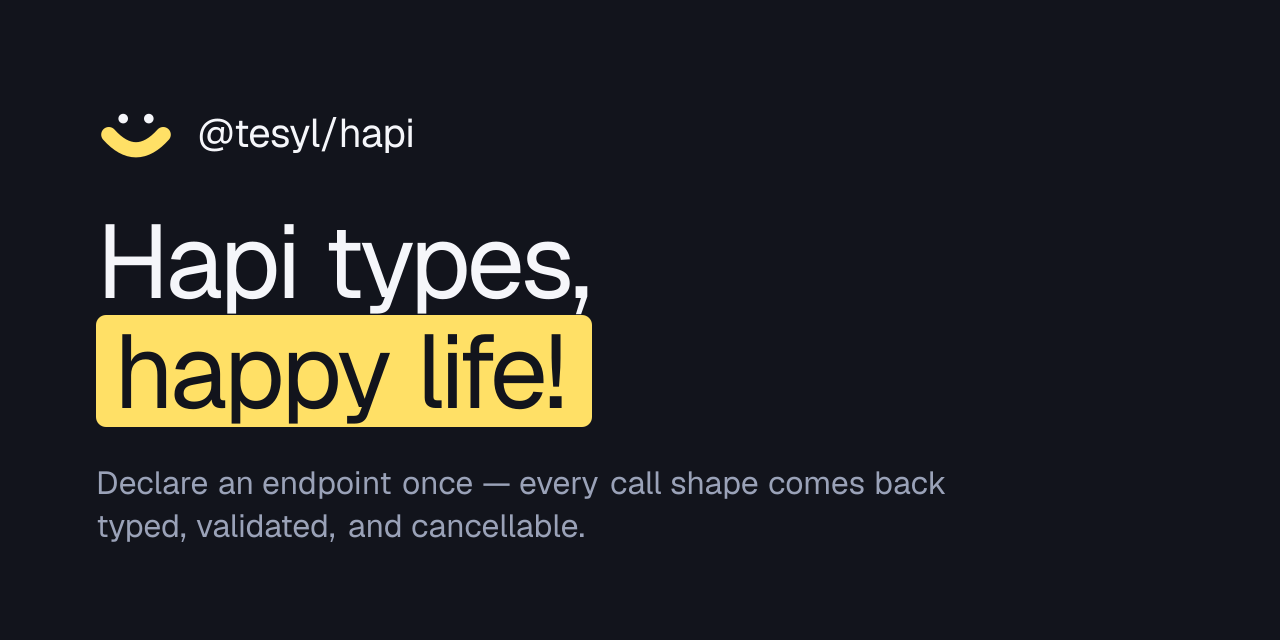
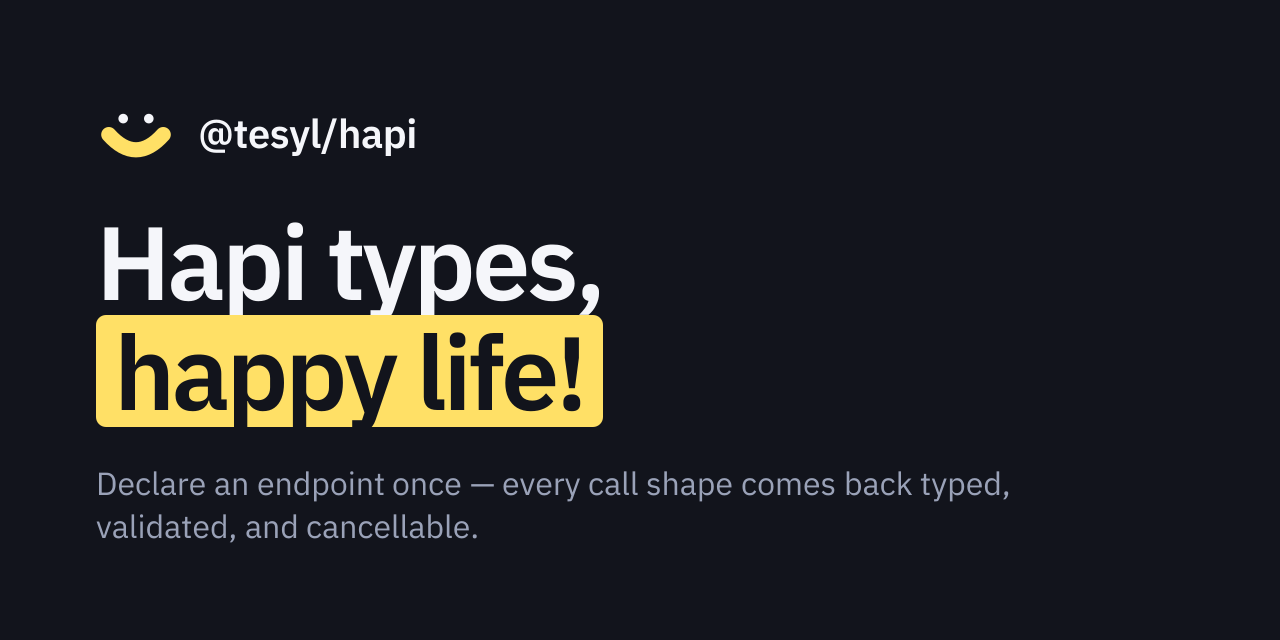
Render the share cards in IBM Plex, and regenerate the GitHub preview
The cards were falling back to Satori's default sans, so the one asset most
people see before they see the site was the one asset off-brand. Satori has no
access to the browser's fonts; the bytes have to be handed to it.

@fontsource/ibm-plex-sans is a devDependency rather than a build-time fetch
from Google. A build that reaches the network is a build that can fail for
reasons unrelated to the code.

The font is located with fs rather than require.resolve. Resolving a .woff
through the module system makes Turbopack try to bundle it and fail with
"Unknown module type" — a font is an asset, not code. Two candidate directories
cover both pnpm layouts, hoisted to the workspace root or installed in the app,
and a missing file raises an error that names the fix.

Only 400 and 600 are loaded: 600 for the wordmark and slogan, 400 for the
supporting line. Satori reads ttf, otf, and woff, but not woff2.

Claude-Session: https://claude.ai/code/session_01V7zX5NS27GogA6Dh9324N3

diff --git a/apps/hapi/app/og-font.ts b/apps/hapi/app/og-font.ts
@@ -1,0 +1,55 @@
+import { existsSync, readFileSync } from 'node:fs';
+import { join } from 'node:path';
+
+/**
+ * IBM Plex Sans, loaded from disk for the share cards.
+ *
+ * Satori has no access to the browser's fonts, so a card renders in a default
+ * sans unless the bytes are handed to it. Reading from `@fontsource` rather
+ * than fetching from Google keeps the build offline and deterministic — a
+ * build-time network call is a build that can fail for reasons unrelated to
+ * the code.
+ *
+ * The file is located with `fs`, not `require.resolve`. Resolving a `.woff`
+ * through the module system makes Turbopack try to bundle it as a module and
+ * fail with "Unknown module type", because a font is an asset rather than
+ * code. Two candidates cover both pnpm layouts: hoisted to the workspace root,
+ * or installed inside the app.
+ */
+const FONT_DIRS: ReadonlyArray<string> = [
+  join(process.cwd(), 'node_modules/@fontsource/ibm-plex-sans/files'),
+  join(process.cwd(), '../../node_modules/@fontsource/ibm-plex-sans/files'),
+];
+
+const findFontDir = (): string => {
+  const dir = FONT_DIRS.find((d) => existsSync(d));
+  if (!dir) {
+    throw new Error(
+      'IBM Plex Sans not found. Run `pnpm install` — @fontsource/ibm-plex-sans is a devDependency of this app.',
+    );
+  }
+  return dir;
+};
+
+/** Satori reads ttf, otf, and woff. It cannot read woff2. */
+const fontFile = (weight: 400 | 600): Buffer =>
+  readFileSync(join(findFontDir(), `ibm-plex-sans-latin-${weight}-normal.woff`));
+
+export type OgFont = {
+  readonly name: string;
+  readonly data: Buffer;
+  readonly weight: 400 | 600;
+  readonly style: 'normal';
+};
+
+/**
+ * The two weights the cards use: 600 for the wordmark and the slogan, 400 for
+ * the supporting line. Loading more would only add bytes to every render.
+ */
+export const ogFonts = (): ReadonlyArray<OgFont> => [
+  { name: 'IBM Plex Sans', data: fontFile(400), weight: 400, style: 'normal' },
+  { name: 'IBM Plex Sans', data: fontFile(600), weight: 600, style: 'normal' },
+];
+
+/** Applied on the root element of each card so every child inherits it. */
+export const OG_FONT_FAMILY = 'IBM Plex Sans';

diff --git a/apps/hapi/app/opengraph-image.tsx b/apps/hapi/app/opengraph-image.tsx
@@ -1,6 +1,7 @@
 import { ImageResponse } from 'next/og';
 import { PACKAGE_NAME, PACKAGE_TAGLINE } from '@tesyl/content/hapi';
 import { MARK_INK, MARK_PAPER, MARK_YELLOW, markDataUri } from './Mark';
+import { OG_FONT_FAMILY, ogFonts } from './og-font';
 
 export const alt = `${PACKAGE_NAME} — ${PACKAGE_TAGLINE}`;
 export const size = { width: 1200, height: 630 };
@@ -26,19 +27,20 @@ export default function OpengraphImage() {
           flexDirection: 'column',
           justifyContent: 'space-between',
           background: MARK_INK,
+          fontFamily: OG_FONT_FAMILY,
           padding: '72px 80px',
         }}
       >
         <div style={{ display: 'flex', alignItems: 'center', gap: 20 }}>
           {/* Satori renders images, not React SVG components. */}
           <img src={markDataUri({ field: 'transparent', dots: MARK_PAPER })} width={72} height={72} />
-          <span style={{ color: MARK_PAPER, fontSize: 34, letterSpacing: -0.5 }}>
+          <span style={{ color: MARK_PAPER, fontSize: 34, letterSpacing: -0.5, fontWeight: 600 }}>
             {PACKAGE_NAME}
           </span>
         </div>
 
         <div style={{ display: 'flex', flexDirection: 'column' }}>
-          <span style={{ color: MARK_PAPER, fontSize: 96, lineHeight: 1.05, letterSpacing: -3 }}>
+          <span style={{ color: MARK_PAPER, fontSize: 96, lineHeight: 1.05, letterSpacing: -3, fontWeight: 600 }}>
             Hapi types,
           </span>
           <div style={{ display: 'flex', alignItems: 'flex-end' }}>
@@ -49,6 +51,7 @@ export default function OpengraphImage() {
                 fontSize: 96,
                 lineHeight: 1.05,
                 letterSpacing: -3,
+                fontWeight: 600,
                 padding: '2px 16px',
                 borderRadius: 8,
               }}
@@ -64,6 +67,6 @@ export default function OpengraphImage() {
         </span>
       </div>
     ),
-    size,
+    { ...size, fonts: [...ogFonts()] },
   );
 }

diff --git a/apps/hapi/app/github-image/route.tsx b/apps/hapi/app/github-image/route.tsx
@@ -1,6 +1,7 @@
 import { ImageResponse } from 'next/og';
 import { PACKAGE_NAME } from '@tesyl/content/hapi';
 import { MARK_INK, MARK_PAPER, MARK_YELLOW, markDataUri } from '../Mark';
+import { OG_FONT_FAMILY, ogFonts } from '../og-font';
 
 /**
  * GitHub's repository social preview.
@@ -25,18 +26,19 @@ export async function GET() {
           justifyContent: 'center',
           gap: 34,
           background: MARK_INK,
+          fontFamily: OG_FONT_FAMILY,
           padding: '0 96px',
         }}
       >
         <div style={{ display: 'flex', alignItems: 'center', gap: 22 }}>
           <img src={markDataUri({ field: 'transparent', dots: MARK_PAPER })} width={80} height={80} />
-          <span style={{ color: MARK_PAPER, fontSize: 40, letterSpacing: -0.5 }}>
+          <span style={{ color: MARK_PAPER, fontSize: 40, letterSpacing: -0.5, fontWeight: 600 }}>
             {PACKAGE_NAME}
           </span>
         </div>
 
         <div style={{ display: 'flex', flexDirection: 'column' }}>
-          <span style={{ color: MARK_PAPER, fontSize: 104, lineHeight: 1.04, letterSpacing: -3.5 }}>
+          <span style={{ color: MARK_PAPER, fontSize: 104, lineHeight: 1.04, letterSpacing: -3.5, fontWeight: 600 }}>
             Hapi types,
           </span>
           <div style={{ display: 'flex' }}>
@@ -47,6 +49,7 @@ export async function GET() {
                 fontSize: 104,
                 lineHeight: 1.04,
                 letterSpacing: -3.5,
+                fontWeight: 600,
                 padding: '2px 18px',
                 borderRadius: 10,
               }}
@@ -61,6 +64,6 @@ export async function GET() {
         </span>
       </div>
     ),
-    { width: 1280, height: 640 },
+    { width: 1280, height: 640, fonts: [...ogFonts()] },
   );
 }
